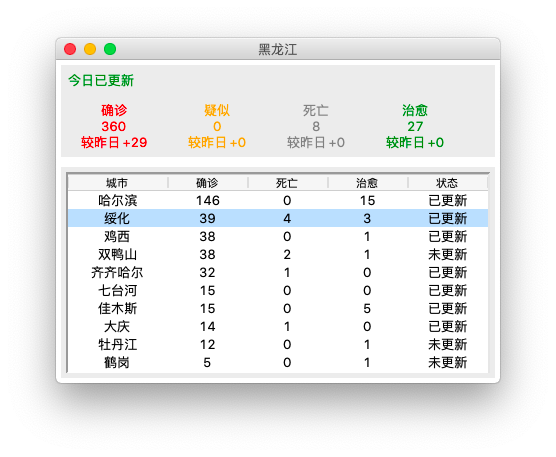
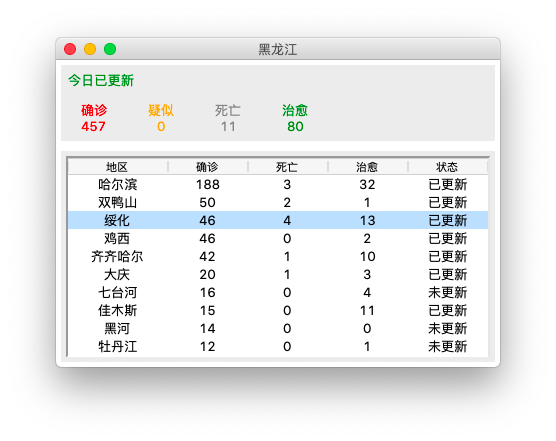
Add the world's data exhabition

diff --git a/ui.py b/ui.py
@@ -14,7 +14,7 @@ from PIL import Image, ImageTk
 
 import numpy as np
 import matplotlib.pyplot as plt
-from mpl_toolkits.mplot3d import Axes3D
+import matplotlib.patches as mpatches
 
 import datasource
 
@@ -25,27 +25,36 @@ if not os.path.exists('cache/img/'):
     os.makedirs('cache/img/')
 
 class MainWindow(object):
-
+    '''
+    窗口构造器:
+    @param label: 窗口标题
+    @param names: 名字列表(2维数组: 0维度为国家名称; 1维度为省级名称)
+    '''
     def __init__(self, label, names):
         self.root = tkinter.Tk()
         self.root.title(label)
         self.names = names
         self.add_widgets()
+        self.root.resizable(False, False)
         self.root.mainloop()
 
 
+    '''
+    窗口初始化函数:
+        将窗口Frame以及Frame上的部件初始化并布局。
+    '''
     def add_widgets(self):
-        self.introduceFrame = ttk.Frame(self.root)
-        self.countriesFrame = ttk.Frame(self.root)
-        self.provincesFrame = ttk.Frame(self.root)
-        self.operationFrame = ttk.Frame(self.root)
+        self.introduceFrame = ttk.Frame(self.root) # 程序标题显示面板
+        self.countriesFrame = ttk.Frame(self.root) # 国家选项显示面板
+        self.provincesFrame = ttk.Frame(self.root) # 省级选项显示面板
+        self.operationFrame = ttk.Frame(self.root) # 程序操作显示面板
         self.introduceFrame.grid(padx=5, pady=5, row=0, column=0, sticky='nwe')
         self.countriesFrame.grid(padx=5, pady=5, row=1, column=0, sticky='nwe')
         self.provincesFrame.grid(padx=5, pady=5, row=2, column=0, sticky='nwe')
         self.operationFrame.grid(padx=5, pady=5, row=3, column=0, sticky='nwe')
 
-        canvas_width = 730
-        canvas_height = 280
+        canvas_width = 730  # 画布宽度
+        canvas_height = 280 # 画布高度
         self.canvas = tkinter.Canvas(self.introduceFrame, bg='lightblue', \
                 width=canvas_width, height=canvas_height) 
         self.canvas.grid(padx=5, pady=5, row=0, column=0, sticky='nwes')
@@ -53,22 +62,35 @@ class MainWindow(object):
         self.ph = ImageTk.PhotoImage(im)
         self.canvas.create_image(0, 0, image=self.ph, anchor=tkinter.NW)
 
-        self.buttons = []
+        worldButton = ttk.Button(self.countriesFrame, text='国家级',
+                command = self.queryWorld)
+        worldButton.grid(padx=3, pady=3, row=0, column=0)
+        self.buttons = []   # 程序按钮集合(2维数组: 0维度为国家级；1维度为省级)
         buttonList = []
         for i in range(len(self.names[0])):
             buttonList.append(ttk.Button(self.countriesFrame, text=self.names[0][i], \
                     command=self.maker(i, 0)))
-            buttonList[i].grid(padx=3, pady=3, row=i//8, column=i%8)
+            buttonList[i].grid(padx=3, pady=3, row=i//8+1, column=i%8)
         self.buttons.append(buttonList.copy())
 
+        chinaButton = ttk.Button(self.provincesFrame, text='省级',
+                command = self.queryChina)
+        chinaButton.grid(padx=3, pady=3, row=0, column=0)
         buttonList.clear()
         for i in range(len(self.names[1])):
             buttonList.append(ttk.Button(self.provincesFrame, text=self.names[1][i], \
                     command=self.maker(i, 1)))
-            buttonList[i].grid(padx=3, pady=3, row=i//8, column=i%8)
+            buttonList[i].grid(padx=3, pady=3, row=i//8+1, column=i%8)
         self.buttons.append(buttonList.copy())
 
 
+    '''
+    选择程序闭包:
+        用于记录每个按钮绑定的运行时执行函数。
+    @param argv: 国家/省标号(从0到len(names[0/1])-1)
+    @param choice: 标记选择的标号是国家级标号还是省级标号
+    @return: 按钮具体绑定的运行时执行函数
+    '''
     def maker(self, argv, choice):
         if choice == 0:
             def func1():
@@ -80,6 +102,11 @@ class MainWindow(object):
             return func2
 
 
+    '''
+    国家级详情信息查询:
+        用于执行国家级详情信息查询功能，即新建一个子窗口对数据进行可视化展示。
+    @param argv: 国家标号(从0到len(names[0])-1)
+    '''
     def queryCountry(self, argv):
         root = tkinter.Toplevel()
         name = self.names[0][argv]
@@ -100,15 +127,23 @@ class MainWindow(object):
         for i in range(len(labels)):
             labels[i].grid(padx=18, pady=5, row=1, column=i, sticky='w')
 
-        canvas = tkinter.Canvas(chartFrame, bg='lightblue', width=470, height=350) 
-        canvas.grid(padx=5, pady=5, row=0, column=0, sticky='nwes')
-        im = draw(data, name)
-        ph = ImageTk.PhotoImage(im.resize((480, 360), Image.ANTIALIAS))
-        canvas.create_image(0, 0, image=ph, anchor=tkinter.NW)
+        if argv == 0:
+            canvas = tkinter.Canvas(chartFrame, bg='lightblue', width=470, height=350)
+            canvas.grid(padx=5, pady=5, row=0, column=0, sticky='nwes')
+            im = draw(data, name)
+            ph = ImageTk.PhotoImage(im.resize((480, 360), Image.ANTIALIAS))
+            canvas.create_image(0, 0, image=ph, anchor=tkinter.NW)
+        else:
+            pass
 
         root.mainloop()
 
 
+    '''
+    省级详情信息查询:
+        用于执行省级详情信息查询功能，即新建一个子窗口对数据进行可视化展示。
+    @param argv: 省标号(从0到len(names[1])-1)
+    '''
     def queryProvince(self, argv):
         root = tkinter.Toplevel()
         name = self.names[1][argv]
@@ -135,37 +170,99 @@ class MainWindow(object):
         root.mainloop()
 
 
+    def queryWorld(self):
+        root = tkinter.Toplevel()
+        root.title('世界疫情数据')
+        labelFrame = ttk.Frame(root)
+        chartFrame = ttk.Frame(root)
+        labelFrame.grid(padx=5, pady=5, row=0, column=0, sticky='nwe')
+        chartFrame.grid(padx=5, pady=5, row=1, column=0, sticky='nwe')
+
+        lastUpdateTime, data = datasource.world_data()
+        ttk.Label(labelFrame, text="数据(中国)最近更新时间:\n%s" % \
+                lastUpdateTime, width=52, foreground='green') \
+                .grid(padx=5, pady=5, row=0, column=0, sticky='nwes')
+        total_number = 0; china_number = data[0]['total']['confirm']
+        for country in data:
+            total_number += country['total']['confirm']
+        text = "世界总确诊数: %d\n中国总确诊数: %d\n其余国家和地区总确诊数: %d" % \
+                (total_number, china_number, total_number-china_number)
+        ttk.Label(labelFrame, text=text, font='Helvetica -18', foreground='red') \
+                .grid(padx=5, pady=5, row=1, column=0, sticky='nwes')
+
+        canvas = tkinter.Canvas(chartFrame, bg='lightblue', width=900, height=350)
+        canvas.grid(padx=5, pady=5, row=0, column=0, sticky='nwes')
+        images = draw1(data)
+        im0 = images[0]
+        ph0 = ImageTk.PhotoImage(im0.resize((480, 360), Image.ANTIALIAS))
+        canvas.create_image(0, 0, image=ph0, anchor=tkinter.NW)
+        im1 = images[1]
+        ph1 = ImageTk.PhotoImage(im1.resize((480, 360), Image.ANTIALIAS))
+        canvas.create_image(440, 0, image=ph1, anchor=tkinter.NW)
+
+        create_table(labelFrame, data).grid(padx=5, pady=10, row=0, column=1, \
+                rowspan=2, sticky='e')
+
+        root.mainloop()
+
+
+    def queryChina(self):
+        pass
+
+
+'''
+创造数据显示标签集合:
+    用于展示国家级/省级数据，将四个标签作为一个列表返回。
+'''
 def create_labels(root, data):
     labels = []
-    labels.append(ttk.Label(root))
-    todayNum = data['today']['confirm']
-    labels[0]['text'] = '确诊\n%d\n较昨日%s' % (data['total']['confirm'], \
-            '+%d' % todayNum if todayNum >= 0 else '%d' % todayNum)
-    labels[0]['justify'] = 'center'
-    labels[0]['foreground'] = 'red'
-    labels.append(ttk.Label(root))
-    todayNum = data['today']['suspect']
-    labels[1]['text'] = '疑似\n%d\n较昨日%s' % (data['total']['suspect'], \
-            '+%d' % todayNum if todayNum >= 0 else '%d' % todayNum)
-    labels[1]['justify'] = 'center'
-    labels[1]['foreground'] = 'orange'
-    labels.append(ttk.Label(root))
-    todayNum = data['today']['dead']
-    labels[2]['text'] = '死亡\n%d\n较昨日%s' % (data['total']['dead'], \
-            '+%d' % todayNum if todayNum >= 0 else '%d' % todayNum)
-    labels[2]['justify'] = 'center'
-    labels[2]['foreground'] = 'grey'
-    labels.append(ttk.Label(root))
-    todayNum = data['today']['heal']
-    labels[3]['text'] = '治愈\n%d\n较昨日%s' % (data['total']['heal'], \
-            '+%d' % todayNum if todayNum >= 0 else '%d' % todayNum)
-    labels[3]['justify'] = 'center'
-    labels[3]['foreground'] = 'green'
+    if 'suspect' in data['today']:
+        labels.append(ttk.Label(root))
+        todayNum = data['today']['confirm']
+        labels[0]['text'] = '确诊\n%d\n较昨日%s' % (data['total']['confirm'], \
+                '+%d' % todayNum if todayNum >= 0 else '%d' % todayNum)
+        labels[0]['justify'] = 'center'
+        labels[0]['foreground'] = 'red'
+        labels.append(ttk.Label(root))
+        todayNum = data['today']['suspect']
+        labels[1]['text'] = '疑似\n%d\n较昨日%s' % (data['total']['suspect'], \
+                '+%d' % todayNum if todayNum >= 0 else '%d' % todayNum)
+        labels[1]['justify'] = 'center'
+        labels[1]['foreground'] = 'orange'
+        labels.append(ttk.Label(root))
+        todayNum = data['today']['dead']
+        labels[2]['text'] = '死亡\n%d\n较昨日%s' % (data['total']['dead'], \
+                '+%d' % todayNum if todayNum >= 0 else '%d' % todayNum)
+        labels[2]['justify'] = 'center'
+        labels[2]['foreground'] = 'grey'
+        labels.append(ttk.Label(root))
+        todayNum = data['today']['heal']
+        labels[3]['text'] = '治愈\n%d\n较昨日%s' % (data['total']['heal'], \
+                '+%d' % todayNum if todayNum >= 0 else '%d' % todayNum)
+        labels[3]['justify'] = 'center'
+        labels[3]['foreground'] = 'green'
+    else:
+        labels.append(ttk.Label(root))
+        labels[0]['text'] = '确诊\n%d' % data['total']['confirm']
+        labels[0]['justify'] = 'center'
+        labels[0]['foreground'] = 'red'
+        labels.append(ttk.Label(root))
+        labels[1]['text'] = '疑似\n%d' % data['total']['suspect']
+        labels[1]['justify'] = 'center'
+        labels[1]['foreground'] = 'orange'
+        labels.append(ttk.Label(root))
+        labels[2]['text'] = '死亡\n%d' % data['total']['dead']
+        labels[2]['justify'] = 'center'
+        labels[2]['foreground'] = 'grey'
+        labels.append(ttk.Label(root))
+        labels[3]['text'] = '治愈\n%d' % data['total']['heal']
+        labels[3]['justify'] = 'center'
+        labels[3]['foreground'] = 'green'
     return labels
 
 
 def create_table(root, data, center=True):
-    colums_name = ['城市', '确诊', '死亡', '治愈', '状态']
+    colums_name = ['地区', '确诊', '死亡', '治愈', '状态']
     colums_width = [100, 80, 80, 80, 80]
     indices = ['col%d' % i for i in range(len(colums_name))]
     table = ttk.Treeview(root, show='headings', columns=tuple(indices))
@@ -206,6 +303,53 @@ def draw(data, name):
     for x, y in zip(X2, Y2):
         plt.text(x, y, '以往: %d' % y, ha='center', va='top')
 
-    plt.savefig('cache/img/%s.png' % name)
+    file_name = 'cache/img/%s.png' % name
+    plt.savefig(file_name)
     plt.close()
-    return Image.open('cache/img/%s.png' % name)
+    image = Image.open(file_name)
+    os.remove(file_name)
+    return image
+
+
+'''
+绘制世界疫情数据图表:
+    以饼状图来展示世界各个国家确诊数占比。
+'''
+def draw1(data):
+    images = []
+
+    labels = [data[0]['name'], '其余国家']
+    others_total = 0
+    for i in range(len(data)-1):
+        others_total += data[1+i]['total']['confirm']
+    nums = [data[0]['total']['confirm'], others_total]
+    plt.pie(nums, labels=labels, autopct='%.2f%%', shadow=True)
+    plt.title('世界疫情数据')
+    name = 'cache/img/world_data.png'
+    plt.savefig(name); plt.close()
+    images.append(Image.open(name))
+    # image = Image.open('cache/img/world_data.png')
+    os.remove(name)
+
+    labels = [item['name'] for item in data][1:11]
+    nums = [item['total']['confirm'] for item in data][1:11]
+    X = range(1, 11)
+    plt.bar(X, nums, facecolor='red', edgecolor='white')
+    for x, y in zip(X, nums):
+        plt.text(x, y, '%d' % y, ha='center', va='bottom')
+    nums = [item['total']['heal'] for item in data][1:11]
+    plt.bar(X, nums, facecolor='green', edgecolor='white')
+    for x, y in zip(X, nums):
+        plt.text(x, y, '%d' % y, ha='center', va='center')
+    plt.xticks(X, labels)
+    patches = [mpatches.Patch(color='red', label='确诊'), \
+            mpatches.Patch(color='green', label='治愈')]
+    plt.legend(handles=patches, ncol=1, loc='best')
+    plt.title('除中国外前10位国家地区疫情数据')
+    name = 'cache/img/world_data_1.png'
+    plt.savefig(name); plt.close()
+    images.append(Image.open(name))
+    os.remove(name)
+
+    return images
+

diff --git a/datasource.py b/datasource.py
@@ -30,6 +30,17 @@ def names():
     return names
     
 
+def world_data():
+    dics = []
+    for country in data['areaTree']:
+        dic = {}
+        dic['name'] = country['name']
+        dic['today'] = country['today']
+        dic['total'] = country['total']
+        dics.append(dic)
+    return (data['lastUpdateTime'], dics)
+
+
 def countries(idx):
     dic = dict()
     dic['name'] = data['areaTree'][idx]['name']
@@ -54,6 +65,7 @@ def provinces(idx):
     dic['total'] = data['areaTree'][0]['children'][idx]['total']
     dic['children'] = data['areaTree'][0]['children'][idx]['children']
     return dic
+
 
 # Initialize the program with `refresh`.
 refresh()

diff --git a/README.md b/README.md
@@ -12,19 +12,21 @@
 
 - _**程序主界面**_
 
-![](res/example_app.png)
+![程序主界面示例](res/example_app.png)
 
 - _**世界级数据展示**_
 
-- [ ] 内容包括各个国家各类数据(确诊、疑似、死亡和治愈病例数)占比等。
+- [x] 内容包括各个国家各类数据(确诊、疑似、死亡和治愈病例数)占比等。
+
+![世界疫情数据展示界面](res/example_world.png)
 
 - _**国家级数据展示**_
 
 - [x] 内容包括国家各类数据对比(“目前”数据和“以往”数据)展示。
 
-![](res/example_china.png)
+![中国数据展示界面](res/example_china.png)
 
-![](res/example_japan.png)
+![日本数据展示界面](res/example_japan.png)
 
 - [ ] 对于中国来说，针对各种数据展示进行完善。
 
@@ -32,9 +34,9 @@
 
 - [x] 对于每个省份，将省份内各城市数据进行展示。
 
-![](res/example_hubei.png)
+![湖北省数据展示界面](res/example_hubei.png)
 
-![](res/example_hei.png)
+![黑龙江省数据展示界面](res/example_hei.png)
 
 ## 安装与使用
 
